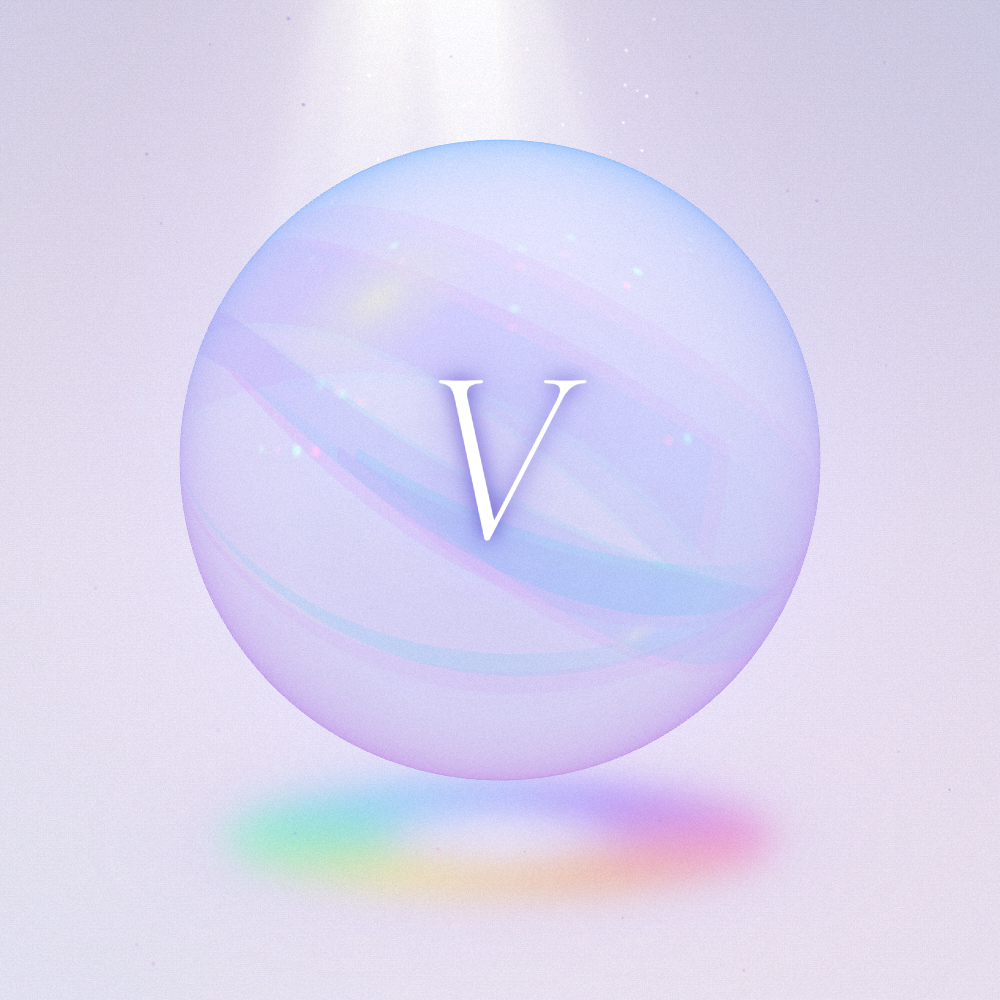
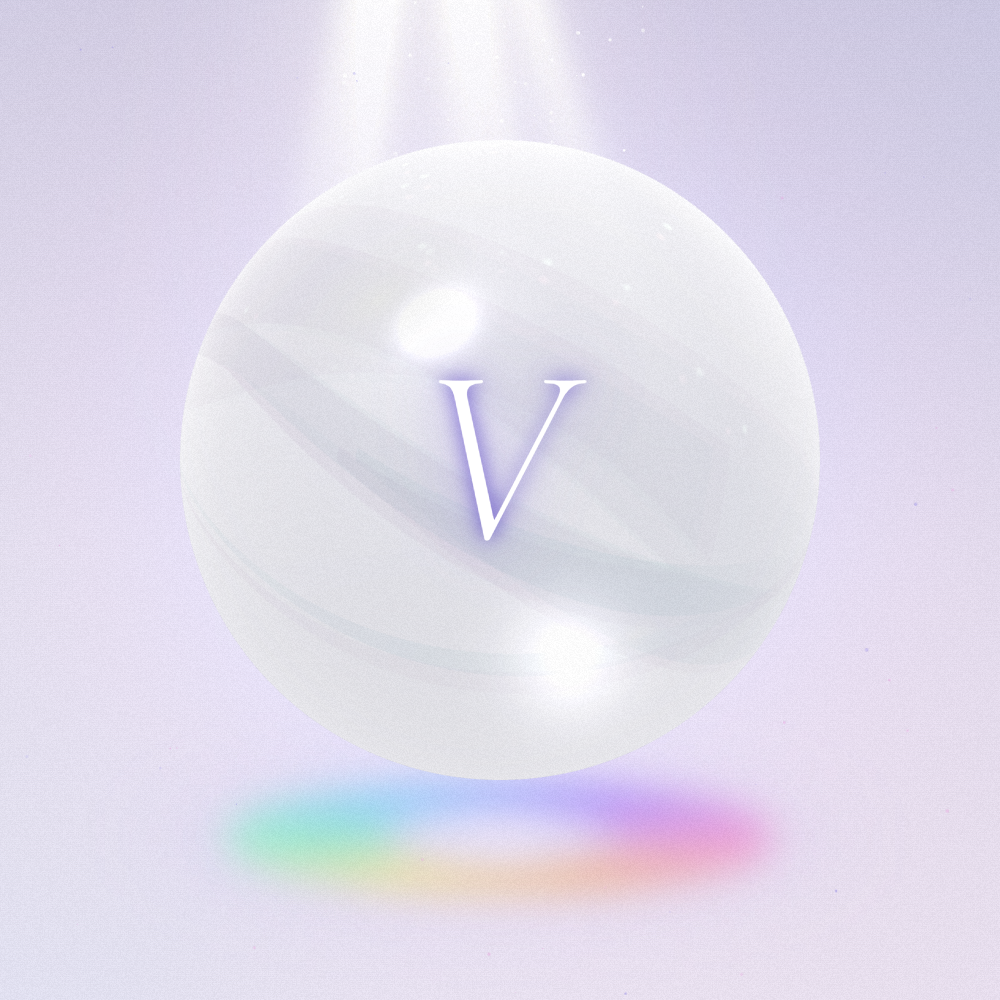
Orb: neutral white glass with specular highlight and caustic
Claude-Session: https://claude.ai/code/session_01NNfMayHtDVknSJbkkHba8P

Changed region(s): [[0.155, 0.124, 0.837, 0.806], [0.372, 0.279, 0.527, 0.372], [0.496, 0.341, 0.589, 0.403]]

diff --git a/rebrand/orb3d.html b/rebrand/orb3d.html
@@ -66,15 +66,15 @@ function mk(id,W,H,ox,oy,or,html){const el=document.createElement('div');el.clas
   fragmentShader:`uniform sampler2D t;uniform vec2 res;uniform float rpx;varying vec3 vN;
   vec3 smp(float ior){vec3 n=normalize(vN);vec3 d=refract(vec3(0.,0.,-1.),n,1./ior);d=refract(d,-n*vec3(1.,1.,1.),ior);
    float z=n.z;vec2 off=-n.xy*rpx*(1.-1./ior)*2.2*(0.6+0.4*z);return texture2D(t,(gl_FragCoord.xy+off)/res).rgb;}
-  void main(){vec3 n=normalize(vN);float r=smp(1.45).r,g=smp(1.5).g,b=smp(1.56).b;vec3 c=vec3(r,g,b);
-   float e=1.-n.z;c=mix(c,vec3(.93,.92,1.),.06+.25*pow(e,3.));c*=1.0+.06*n.y;
+  void main(){vec3 n=normalize(vN);float r=smp(1.45).r,g=smp(1.5).g,b=smp(1.56).b;vec3 c=vec3(r,g,b);float l=dot(c,vec3(.299,.587,.114));c=mix(vec3(l),c,.2);c=mix(c,vec3(1.),.1);
+   float e=1.-n.z;c=mix(c,vec3(1.),.45*pow(e,2.5));c=mix(c,vec3(.55,.55,.62),smoothstep(.93,.995,e)*.55);c=mix(c,vec3(1.),smoothstep(.985,1.,e)*.7);c*=1.04+.07*n.y;vec3 L=normalize(vec3(-.35,.75,.55));float sp=pow(max(dot(reflect(-L,n),vec3(0.,0.,1.)),0.),60.);c+=vec3(sp)*.9;float sp2=pow(max(dot(reflect(-L,n),vec3(0.,0.,1.)),0.),6.);c+=vec3(sp2)*.08;vec2 hp=n.xy-vec2(.22,-.62);c+=vec3(1.,.99,.97)*exp(-dot(hp,hp)*30.)*.35;c=min(c,vec3(1.));
    gl_FragColor=vec4(c,1.);
    #include <colorspace_fragment>
   }`});
  const rs=new THREE.Mesh(new THREE.SphereGeometry(1,160,120),refr);rs.renderOrder=5;grp.add(rs);
  const fm=new THREE.Mesh(new THREE.SphereGeometry(1,128,96),glass);fm.renderOrder=20;
  const rim=new THREE.ShaderMaterial({transparent:true,depthWrite:false,blending:THREE.NormalBlending,uniforms:{},vertexShader:'varying vec3 n;varying vec3 v;void main(){n=normalize(normalMatrix*normal);vec4 p=modelViewMatrix*vec4(position,1.);v=normalize(-p.xyz);gl_Position=projectionMatrix*p;}',
-  fragmentShader:'varying vec3 n;varying vec3 v;void main(){float e=1.-abs(n.z);float f=pow(e,2.2)*.75+smoothstep(.9,1.,e)*.3;vec3 c=mix(vec3(.95,.55,.85),vec3(.45,.7,1.),n.y*.5+.5);c=mix(c,vec3(.55,.5,.95),smoothstep(.2,-.8,n.y)*.5);float sh=smoothstep(.3,-1.,n.y)*.18*(1.-e);gl_FragColor=vec4(mix(c,vec3(.6,.55,.9),sh),max(f,sh));}'});
+  fragmentShader:'varying vec3 n;varying vec3 v;void main(){float e=1.-abs(n.z);float f=pow(e,2.2)*.75+smoothstep(.9,1.,e)*.3;vec3 c=mix(vec3(.82,.82,.86),vec3(1.),smoothstep(-.6,.8,n.y));float sh=smoothstep(.3,-1.,n.y)*.12*(1.-e);gl_FragColor=vec4(mix(c,vec3(.72,.72,.78),sh),max(f*.35,sh));}'});
  const rmM=new THREE.Mesh(new THREE.SphereGeometry(1.001,128,96),rim);rmM.renderOrder=21;grp.add(rmM);
  const rm=new THREE.MeshBasicMaterial({vertexColors:true,transparent:true,opacity:.5,side:THREE.DoubleSide,depthWrite:false,depthTest:false});
  [[0,.0,.36,.1],[.5,.03,.22,.14],[1.0,-.03,.13,.2],[1.6,.05,.06,.28],[2.4,-.06,.03,.25]].forEach(([p,t,wd,op])=>{const mm=rm.clone();mm.opacity=op;mm.depthTest=true;mm.depthWrite=true;mm.side=THREE.DoubleSide;const m=new THREE.Mesh(ribbonGeo(1,p,t,wd),mm);m.rotation.set(.15,0,-.14);grpA.add(m)});
